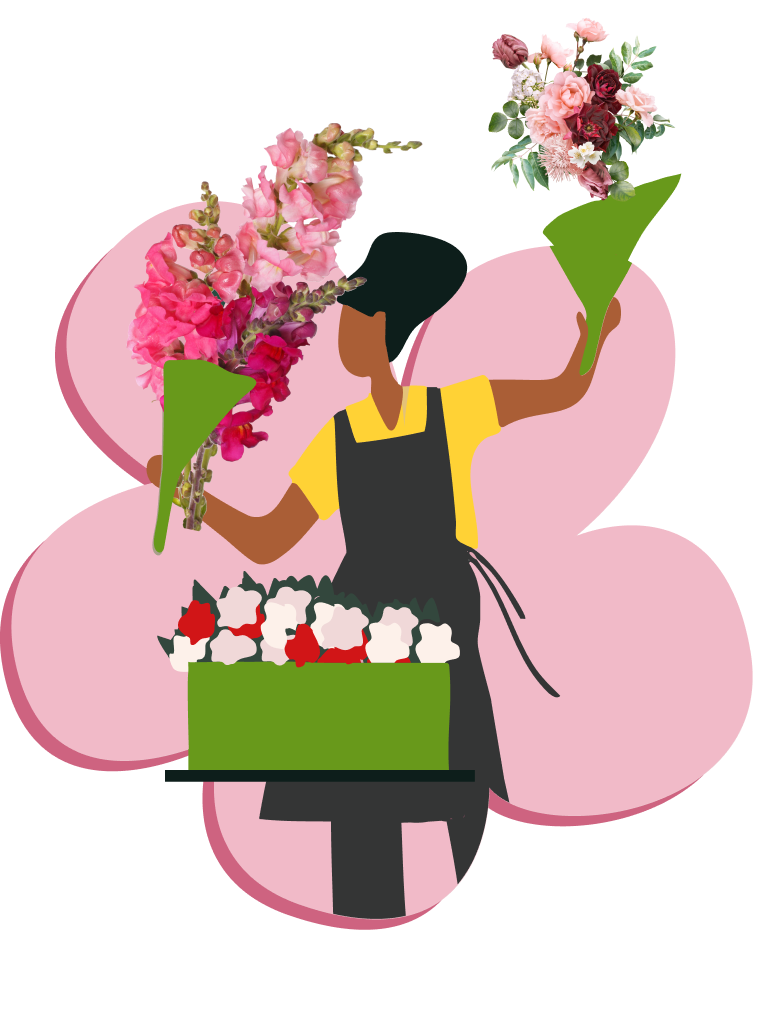
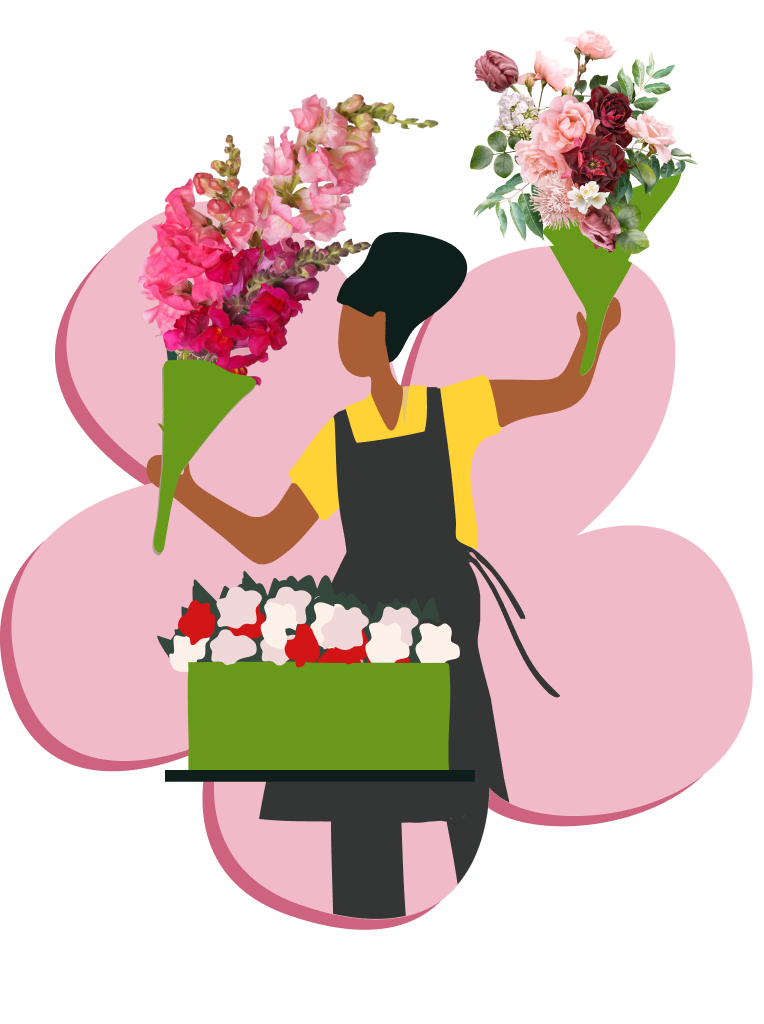
added global virable HOST

Changed region(s): [[0.1505, 0.0938, 0.572, 0.5312], [0.6021, 0.0, 0.9031, 0.25]]

diff --git a/screens/PlanCheckout.jsx b/screens/PlanCheckout.jsx
@@ -27,6 +27,7 @@ import wildImg from "../assets/images/home/wild.png";
 import classicImg from "../assets/images/home/classic.png";
 import modernImg from "../assets/images/home/modern.png";
 
+const { HOST } = require("../server");
 // Map bouquet type to corresponding image
 const images = {
   Classic: classicImg,
@@ -82,7 +83,7 @@ export default function PlanPayment() {
   useEffect(() => {
     const fetchPlan = async () => {
       try {
-        const response = await fetch("http://192.168.1.71:3000/bouquetData");
+        const response = await fetch(`${HOST}/bouquetData`);
         const data = await response.json();
         const planItem = data[type]?.find((item) => item.id === bouquetId);
 
@@ -160,24 +161,21 @@ export default function PlanPayment() {
     try {
       // Check if user already has a subscription
       const checkRes = await fetch(
-        `http://192.168.1.71:3000/subscriptions?userId=${newSubscription.userId}`
+        `${HOST}/subscriptions?userId=${newSubscription.userId}`
       );
       const existingSubs = await checkRes.json();
 
       if (existingSubs.length > 0) {
         // Update the first existing subscription
         const existingSub = existingSubs[0];
-        await fetch(
-          `http://192.168.1.71:3000/subscriptions/${existingSub.id}`,
-          {
-            method: "PATCH",
-            headers: { "Content-Type": "application/json" },
-            body: JSON.stringify(newSubscription),
-          }
-        );
+        await fetch(`${HOST}/subscriptions/${existingSub.id}`, {
+          method: "PATCH",
+          headers: { "Content-Type": "application/json" },
+          body: JSON.stringify(newSubscription),
+        });
       } else {
         // Create new subscription
-        await fetch("http://192.168.1.71:3000/subscriptions", {
+        await fetch(`${HOST}/subscriptions`, {
           method: "POST",
           headers: { "Content-Type": "application/json" },
           body: JSON.stringify(newSubscription),

diff --git a/screens/MySubscription.jsx b/screens/MySubscription.jsx
@@ -17,7 +17,7 @@ import {
 } from "react-native";
 import { useNavigation } from "@react-navigation/native";
 import { useUserState } from "../services/UserState.js";
-
+const { HOST } = require("../server");
 export default function SubscriptionScreen() {
   const navigation = useNavigation();
   const { user } = useUserState();
@@ -32,9 +32,7 @@ export default function SubscriptionScreen() {
 
     const fetchSubscriptions = async () => {
       try {
-        const res = await fetch(
-          `http://192.168.1.71:3000/subscriptions?userId=${user.id}`
-        );
+        const res = await fetch(`${HOST}/subscriptions?userId=${user.id}`);
         const data = await res.json();
         if (data.length > 0) {
           // 优先取 active 订阅
@@ -119,14 +117,11 @@ export default function SubscriptionScreen() {
       setSubscription(updatedSubscription);
 
       // 更新后台
-      const response = await fetch(
-        `http://192.168.1.71:3000/subscriptions/${subscription.id}`,
-        {
-          method: "PUT",
-          headers: { "Content-Type": "application/json" },
-          body: JSON.stringify(updatedSubscription),
-        }
-      );
+      const response = await fetch(`${HOST}/subscriptions/${subscription.id}`, {
+        method: "PUT",
+        headers: { "Content-Type": "application/json" },
+        body: JSON.stringify(updatedSubscription),
+      });
 
       if (!response.ok) throw new Error("Failed to update subscription");
 

diff --git a/screens/PlanScreen.jsx b/screens/PlanScreen.jsx
@@ -16,7 +16,7 @@ import { useUserState } from "../services/UserState";
 import wildImg from "../assets/images/home/wild.png";
 import classicImg from "../assets/images/home/classic.png";
 import modernImg from "../assets/images/home/modern.png";
-
+const { HOST } = require("../server");
 // Map bouquet type to corresponding image
 const images = {
   Classic: classicImg,
@@ -56,7 +56,7 @@ export default function PlanScreen() {
 
   // Fetch bouquet data from local server on component mount
   useEffect(() => {
-    fetch("http://192.168.1.71:3000/bouquetData")
+    fetch(`${HOST}/bouquetData`)
       .then((res) => res.json())
       .then((data) => setBouquetData(data))
       .catch((err) => console.error("Fetch bouquetData error:", err));
@@ -182,7 +182,7 @@ export default function PlanScreen() {
                   <RatingStars rating={item.rating} reviews={item.reviews} />
                   <Text className="text-[#C02C26] font-bold mt-2">
                     ${item.frequency[frequency.toLowerCase()].price} /{" "}
-                    {frequency === "monthly" ? "Month" : "Week"}
+                    {frequency === "Monthly" ? "Month" : "Week"}
                   </Text>
                 </View>
               </View>

diff --git a/screens/MyFavorite.jsx b/screens/MyFavorite.jsx
@@ -11,7 +11,7 @@ import { SafeAreaView } from "react-native-safe-area-context";
 import SuggestionCarousel from "../components/SuggestionCarousel";
 import { useUserState } from "../services/UserState";
 import { useFocusEffect } from "@react-navigation/native";
-
+const { HOST } = require("../server");
 const imageMap = {
   flowerBouquet01: require("../assets/images/flowerBouquet01.jpeg"),
   flowerBouquet02: require("../assets/images/flowerBouquet02.jpeg"),
@@ -23,11 +23,6 @@ const imageMap = {
   flowerBouquet08: require("../assets/images/flowerBouquet08.jpeg"),
   flowerBouquet09: require("../assets/images/flowerBouquet09.jpeg"),
 };
-
-const HOST =
-  Platform.OS === "android"
-    ? "http://10.0.2.2:3000"
-    : "http://192.168.1.71:3000";
 
 export default function FavoriteScreen() {
   const { user } = useUserState();

diff --git a/screens/HomeScreen.jsx b/screens/HomeScreen.jsx
@@ -17,6 +17,7 @@ import classicImg from "../assets/images/home/classic.png";
 import wildflowerImg from "../assets/images/home/wild.png";
 import modernImg from "../assets/images/home/modern.png";
 
+const { HOST } = require("../server");
 // Map bouquet types to their corresponding images
 const bouquetImages = {
   Classic: classicImg,
@@ -33,7 +34,7 @@ export default function HomeScreen() {
 
   // Fetch bouquet data from local server on component mount
   useEffect(() => {
-    fetch("http://192.168.1.71:3000/bouquetData")
+    fetch(`${HOST}/bouquetData`)
       .then((res) => res.json())
       .then((data) => {
         console.log("data", data[0]);

diff --git a/screens/ShopScreen.jsx b/screens/ShopScreen.jsx
@@ -22,7 +22,7 @@ import {
 import InputField from "../components/InputField";
 import FlowerCard from "../components/FlowerCard";
 import { useUserState } from "../services/UserState"; // Custom hook for user login state
-
+const { HOST } = require("../server");
 function Shop() {
   // --------------------
   // State Hooks
@@ -37,8 +37,6 @@ function Shop() {
 
   const navigation = useNavigation();
   const { user } = useUserState(); // Current logged-in user
-
-  const HOST = "http://192.168.1.71:3000"; // Local API host
 
   // --------------------
   // API Functions

diff --git a/screens/FlowerDetailScreen.jsx b/screens/FlowerDetailScreen.jsx
@@ -16,13 +16,8 @@ import {
 } from "react-native";
 import { useNavigation, useRoute } from "@react-navigation/native";
 import RatingStar from "../components/RatingStar"; // 假设你已有这个组件
-
+const { HOST } = require("../server");
 function FlowerDetailScreen() {
-  const HOST =
-    Platform.OS === "android"
-      ? "http://10.0.2.2:3000"
-      : "http://192.168.1.71:3000";
-
   const screenWidth = Dimensions.get("window").width;
   const navigation = useNavigation();
   const route = useRoute();

diff --git a/services/LoginManager.js b/services/LoginManager.js
@@ -1,7 +1,7 @@
 // loginManager.js
 import AsyncStorage from "@react-native-async-storage/async-storage";
-
-const API_URL = "http://192.168.1.71:3000/users"; // 或你 json-server 的地址
+const { HOST } = require("../server");
+const API_URL = `${HOST}/users`;
 
 class LoginManager {
   constructor() {

diff --git a/server.js b/server.js
@@ -1,0 +1,4 @@
+// server.js
+const HOST = "http://192.168.1.71:3000";
+
+module.exports = { HOST };

diff --git a/README.md b/README.md
@@ -33,9 +33,10 @@ Bloomie is a flower store offering both in-store and online shopping options.
 
 ### Installation Steps:
 
-1. Install project dependencies: npm i
+1. Install project dependencies: npm install --legacy-peer-deps
 2. Set up the JSON Server: npm run db
-3. Start the development server: npm run start
+3. change the HOST of the file (server.js) to your own IP
+4. Start the development server: npm run start
 
 ---
 
